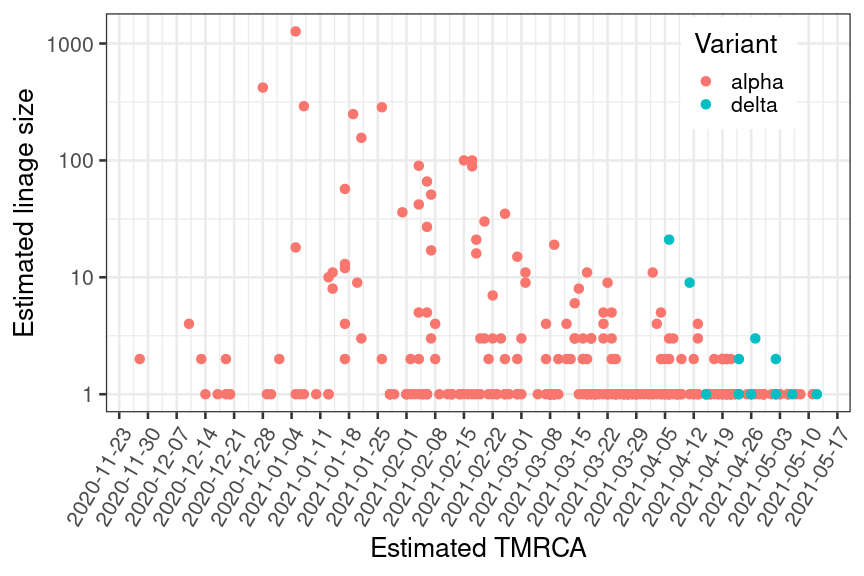
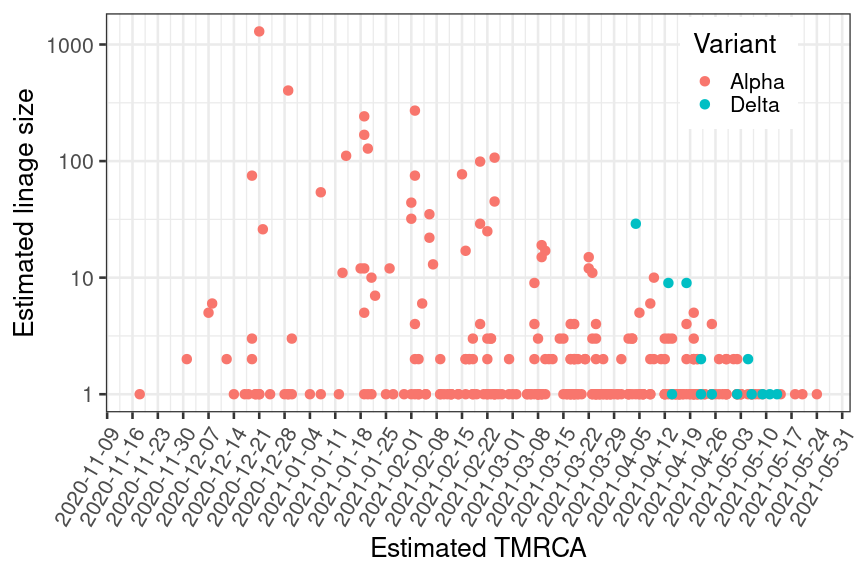
Updated with data from 2021-06-08

diff --git a/alpha_vs_delta.md b/alpha_vs_delta.md
@@ -1,6 +1,6 @@
 Comparative varianttransmissibility: Alpha vs Delta
 ================
-31/05/2021
+08/06/2021
 
 In these analyses we compare B.1.1.7 (alpha variant) with B.1.617.2
 (delta variant) in terms of lineage sizes in Norway. Each inferred
